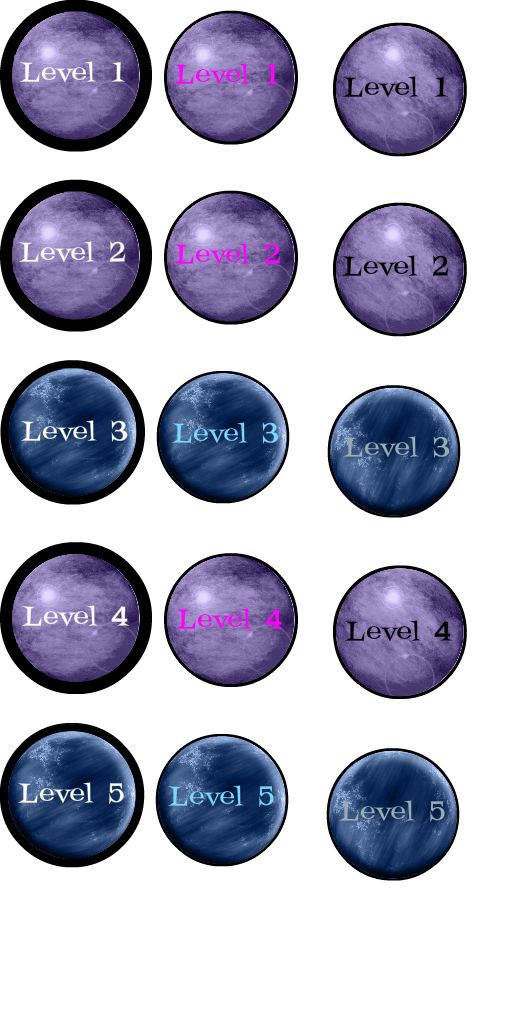
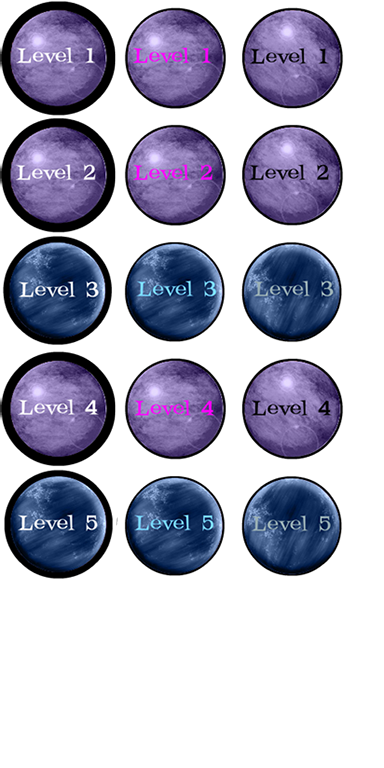
Done as toast

diff --git a/Tribble Defense/game.js b/Tribble Defense/game.js
@@ -200,6 +200,7 @@ var manifest = [
     {src:"images/Static/blueTreeBlock.png", id:"bluTree"},
     {src:"images/buttons.png", id:"button"},
     {src:"images/miniButtons.png", id:"miniButton"},
+    {src:"images/levelSelectionButtons.png", id:"levelButton"},
     {src:"images/SpeakerOn.png", id:"SpeakerOn"},
     {src:"audio/StartScreen.mp3", id:"StartScreen"},
     {src:"images/SpeakerOff.png", id:"SpeakerOff"},
@@ -283,12 +284,16 @@ var backgroundMusic = {
 var spriteSheets = {
     buttons: null,
     miniButtons: null,
+    levelButtons: null,
     stars: null,
     makeButton: function() {
         return (new createjs.Sprite(this.buttons));
     },
     makeMiniButton: function() {
         return (new createjs.Sprite(this.miniButtons));
+    },
+    makeLevelButton: function() {
+        return (new createjs.Sprite(this.levelButtons));
     },
     makeStar: function() {
         return (new createjs.Sprite(this.stars));
@@ -402,6 +407,29 @@ function initSprites() {
         } 
     });
     spriteSheets.miniButtons = miniButtonSheet;
+    
+    var levelButtonSheet = new createjs.SpriteSheet({
+        images: [queue.getResult("levelButton")],
+        frames: {width: 117, height: 117, regX: 58, regY: 58},
+        animations: {
+        level1Up:   [0, 0,   "level1Up"],
+        level1Over: [1, 1,   "level1Over"],
+        level1Down: [2, 2,   "level1Down"],
+        level2Up:   [3, 3,   "level2Up"],
+        level2Over: [4, 4,   "level2Over"],
+        level2Down: [5, 5,   "level2Down"],
+        level3Up:   [6, 6,   "level3Up"],
+        level3Over: [7, 7,   "level3Over"],
+        level3Down: [8, 8,   "level3Down"],
+        level4Up:   [9, 9,   "level4Up"],
+        level4Over: [10, 10, "level4Over"],
+        level4Down: [11, 11, "level4Down"],
+        level5Up:   [12, 12, "level5Up"],
+        level5Over: [13, 13, "level5Over"],
+        level5Down: [14, 14, "level5Down"],
+        } 
+    });
+    spriteSheets.levelButtons = levelButtonSheet;
     //This takes the images loaded from the sprite sheet and breaks it into the individual frames. I cut and pasted the 'frames' parameter from the .js file created by Flash when I exported in easelJS format. I didn't cut and paste anything except 'frames' because I am using preloadJS to load all the images completely before running the game. That's what the queue.getResult is all about.
     
     var starSheet = new createjs.SpriteSheet({
@@ -544,6 +572,9 @@ function init() {
         BTN.push(CreateButtonFromSprite(spriteSheets.makeButton(),"play",    function() { CurrentGameState = GameStates.Game;createjs.Sound.play("tick");}));
         BTN.push(CreateButtonFromSprite(spriteSheets.makeButton(),"instruct",function() { CurrentGameState = GameStates.Instructions; createjs.Sound.play("tick");}));
         BTN.push(CreateButtonFromSprite(spriteSheets.makeButton(),"level",    function() { 
+            BTN.map(function(item) {
+                GameStates.StartScreen.container.removeChild(item);
+            });
             var subMenu = loadImage("levelSelect");
             CurrentGameState.container.addChild(subMenu);
             var mBTN = [];
@@ -552,10 +583,83 @@ function init() {
                 mBTN.map(function(item) {
                     GameStates.StartScreen.container.removeChild(item);
                 });
+                BTN.map(function(item) {
+                    GameStates.StartScreen.container.addChild(item);
+                });
                 GameStates.StartScreen.container.removeChild(subMenu);
             }));
             mBTN[0].x=400;
-            mBTN[0].y=400;
+            mBTN[0].y=450;
+            mBTN.push(CreateButtonFromSprite(spriteSheets.makeLevelButton(),"level1",    function() {
+                createjs.Sound.play("tick");
+                mBTN.map(function(item) {
+                    GameStates.StartScreen.container.removeChild(item);
+                });
+                BTN.map(function(item) {
+                    GameStates.StartScreen.container.addChild(item);
+                });
+                GameStates.StartScreen.container.removeChild(subMenu);
+                currentLevel=0;
+                CurrentGameState = GameStates.Game;
+            }));
+            mBTN[1].x=200;
+            mBTN[1].y=430;
+            mBTN.push(CreateButtonFromSprite(spriteSheets.makeLevelButton(),"level2",    function() {
+                createjs.Sound.play("tick");
+                mBTN.map(function(item) {
+                    GameStates.StartScreen.container.removeChild(item);
+                });
+                BTN.map(function(item) {
+                    GameStates.StartScreen.container.addChild(item);
+                });
+                GameStates.StartScreen.container.removeChild(subMenu);
+                currentLevel=1;
+                CurrentGameState = GameStates.Game;
+            }));
+            mBTN[2].x=275;
+            mBTN[2].y=310;
+            mBTN.push(CreateButtonFromSprite(spriteSheets.makeLevelButton(),"level3",    function() {
+                createjs.Sound.play("tick");
+                mBTN.map(function(item) {
+                    GameStates.StartScreen.container.removeChild(item);
+                });
+                BTN.map(function(item) {
+                    GameStates.StartScreen.container.addChild(item);
+                });
+                GameStates.StartScreen.container.removeChild(subMenu);
+                currentLevel=2;
+                CurrentGameState = GameStates.Game;
+            }));
+            mBTN[3].x=400;
+            mBTN[3].y=280;
+            mBTN.push(CreateButtonFromSprite(spriteSheets.makeLevelButton(),"level4",    function() {
+                createjs.Sound.play("tick");
+                mBTN.map(function(item) {
+                    GameStates.StartScreen.container.removeChild(item);
+                });
+                BTN.map(function(item) {
+                    GameStates.StartScreen.container.addChild(item);
+                });
+                GameStates.StartScreen.container.removeChild(subMenu);
+                currentLevel=3;
+                CurrentGameState = GameStates.Game;
+            }));
+            mBTN[4].x=525;
+            mBTN[4].y=310;
+            mBTN.push(CreateButtonFromSprite(spriteSheets.makeLevelButton(),"level5",    function() {
+                createjs.Sound.play("tick");
+                mBTN.map(function(item) {
+                    GameStates.StartScreen.container.removeChild(item);
+                });
+                BTN.map(function(item) {
+                    GameStates.StartScreen.container.addChild(item);
+                });
+                GameStates.StartScreen.container.removeChild(subMenu);
+                currentLevel=4;
+                CurrentGameState = GameStates.Game;
+            }));
+            mBTN[5].x=600;
+            mBTN[5].y=430;
             mBTN.map(function(item) {
                 GameStates.StartScreen.container.addChild(item);
             });
@@ -1419,16 +1523,38 @@ function Square(pos,dim){
     this.misc = 0;
     
     this.changeItem = function(container,newIndex) {
-        container.removeChild(this.graphic);
+        
         this.fill(container,newIndex);
     };
     this.fill = function(container,index){
-        this.graphic = allGraphic[index].clone();
-        this.graphic.x = this.pos.x;
-        this.graphic.y = this.pos.y;
-        this.graphic.scaleX = this.dim.x/128;
-        this.graphic.scaleY = this.dim.y/128;
-        container.addChild(this.graphic);
+        if(index!==0)
+        {
+            container.removeChild(this.graphic);
+            this.graphic = allGraphic[index].clone();
+            this.graphic.x = this.pos.x;
+            this.graphic.y = this.pos.y+this.dim.y;
+            this.graphic.scaleX=this.dim.x/128;
+            this.graphic.scaleY=0.2;
+            var moveTween = createjs.Tween.get(this.graphic,{loop:false})
+                .to({y:this.pos.y-this.dim.y*0.40, scaleY:this.dim.y/96},100,createjs.Ease.linear)
+                .to({y:this.pos.y, scaleY:this.dim.y/128},100,createjs.Ease.linear);
+            container.addChild(this.graphic);
+        }
+        else if(this.graphic){
+            
+            var moveTween = createjs.Tween.get(this.graphic,{loop:false})
+                .to({y:this.pos.y-this.dim.y*0.40, scaleY:this.dim.y/96},100,createjs.Ease.linear)
+                .to({y:this.pos.y+this.dim.y, scaleY:0.2},100,createjs.Ease.linear)
+                .call(this.animHelper);
+        }
+        else {
+            this.graphic = allGraphic[index].clone();
+            this.graphic.x = this.pos.x;
+            this.graphic.y = this.pos.y;
+            this.graphic.scaleX=this.dim.x/128;
+            this.graphic.scaleY=this.dim.y/128;  
+            container.addChild(this.graphic);
+        }
     };
     this.destruct = function(container){
         this.pos=0;
@@ -1436,6 +1562,16 @@ function Square(pos,dim){
         this.misc=0;
         container.removeChild(this.graphic);
         this.graphic=null;
+    };
+    var spud = this;
+    this.animHelper = function(){
+        GameStates.Game.container.removeChild(spud.graphic);
+        spud.graphic = allGraphic[0].clone();
+        spud.graphic.x = spud.pos.x;
+        spud.graphic.y = spud.pos.y;
+        spud.graphic.scaleX=spud.dim.x/128;
+        spud.graphic.scaleY=spud.dim.y/128;
+        GameStates.Game.container.addChild(spud.graphic);
     };
 }
 
@@ -1457,7 +1593,7 @@ function Agent(container,coords,pos,dim,type,lifespan){
         this.coords =newCoords;
         this.age(newAge);
         var moveTween = createjs.Tween.get(this.graphic,{loop:false})
-            .to({x: newPos.x+this.offset, y:newPos.y+this.offset, rotation:0},100,createjs.Ease.linear);
+            .to({x: newPos.x+this.offset, y:newPos.y+this.offset, rotation:0},250,createjs.Ease.linear).call(refresher);
     };
     
     this.destruct = function(container){
@@ -1566,6 +1702,11 @@ function Grid(container, cells, pos, dim){
         });
     };
 }
+
+function refresher(){
+    levels[currentLevel].grid.refresh(GameStates.Game.container);
+}
+
 
 function updateStars(ratio){ 
     stars[0].gotoAndStop("empty");
@@ -1835,8 +1976,8 @@ function initGameScene(container) {
     goal.y = 100; 
     
     titleText = new createjs.Text("", "24px Quantico", "#FFF");
-    titleText.x = 200;
-    titleText.y = 5;
+    titleText.x = 250;
+    titleText.y = 2;
     
     pauseButton = CreateButtonFromSprite(spriteSheets.makeMiniButton(),"miniMenu",    function() { 
             paused = true;
@@ -1875,14 +2016,14 @@ function initGameScene(container) {
             });
             createjs.Sound.play("tick");
         });
-    pauseButton.x = 15;
-    pauseButton.y = 30;
+    pauseButton.x = 75;
+    pauseButton.y = 24;
     
     levels[0] = new Level("Welcome", 1 , 15, 30, new Coord(3,3),0);
     
     levels[1] = new Level("Shrubs", 1 , 30, 60, new Coord(5,5),6);
     
-    levels[2] = new Level("Hazards", 2 , 40, 80, new Coord(5,5),0);
+    levels[2] = new Level("Hazards", 2 , 50, 80, new Coord(5,5),0);
     levels[2].setSpawners = function(){
         levels[2].game.addSpawner(new Spawner(5,8,2,3));
         levels[2].game.spawners[0].pos = new Coord(2,2);
@@ -1895,7 +2036,7 @@ function initGameScene(container) {
         levels[2].game.spawners[0].directions[6] = new Coord(1,0);
         levels[2].game.spawners[0].directions[7] = new Coord(-1,0);
     };
-    levels[3] = new Level("Challenge", 1 , 40, 80, new Coord(6,6),4);
+    levels[3] = new Level("Challenge", 1 , 45, 80, new Coord(6,6),4);
     levels[3].setSpawners = function(){
         levels[3].game.addSpawner(new Spawner(5,8,3,5));
         levels[3].game.spawners[0].pos = new Coord(1,4);
@@ -1906,10 +2047,10 @@ function initGameScene(container) {
         levels[3].game.spawners[1].directions[0] = new Coord(0,1);
         levels[3].game.spawners[1].directions[1] = new Coord(1,1);
     };
-    levels[4] = new Level("Freedom", 2 , 999, 1, new Coord(10,10),10);
+    levels[4] = new Level("Die Already", 2 , 40, 50, new Coord(6,6),2);
     levels[4].setSpawners = function(){
         levels[4].game.addSpawner(new Spawner(1,2,3,4));
-        levels[4].game.spawners[0].pos = new Coord(2,2);
+        levels[4].game.spawners[0].pos = new Coord(1,1);
         levels[4].game.spawners[0].directions[0] = new Coord(0,-1);
         levels[4].game.spawners[0].directions[1] = new Coord(0,1);
         levels[4].game.spawners[0].directions[2] = new Coord(1,-1);
@@ -1919,7 +2060,7 @@ function initGameScene(container) {
         levels[4].game.spawners[0].directions[6] = new Coord(1,0);
         levels[4].game.spawners[0].directions[7] = new Coord(-1,0);
         levels[4].game.addSpawner(new Spawner(1,2,3,4));
-        levels[4].game.spawners[1].pos = new Coord(7,2);
+        levels[4].game.spawners[1].pos = new Coord(4,4);
         levels[4].game.spawners[1].directions[0] = new Coord(0,-1);
         levels[4].game.spawners[1].directions[1] = new Coord(0,1);
         levels[4].game.spawners[1].directions[2] = new Coord(1,-1);
@@ -1929,7 +2070,7 @@ function initGameScene(container) {
         levels[4].game.spawners[1].directions[6] = new Coord(1,0);
         levels[4].game.spawners[1].directions[7] = new Coord(-1,0);
         levels[4].game.addSpawner(new Spawner(1,2,3,4));
-        levels[4].game.spawners[2].pos = new Coord(2,7);
+        levels[4].game.spawners[2].pos = new Coord(1,4);
         levels[4].game.spawners[2].directions[0] = new Coord(0,-1);
         levels[4].game.spawners[2].directions[1] = new Coord(0,1);
         levels[4].game.spawners[2].directions[2] = new Coord(1,-1);
@@ -1939,7 +2080,7 @@ function initGameScene(container) {
         levels[4].game.spawners[2].directions[6] = new Coord(1,0);
         levels[4].game.spawners[2].directions[7] = new Coord(-1,0);
         levels[4].game.addSpawner(new Spawner(1,2,3,4));
-        levels[4].game.spawners[3].pos = new Coord(7,7);
+        levels[4].game.spawners[3].pos = new Coord(4,1);
         levels[4].game.spawners[3].directions[0] = new Coord(0,-1);
         levels[4].game.spawners[3].directions[1] = new Coord(0,1);
         levels[4].game.spawners[3].directions[2] = new Coord(1,-1);
